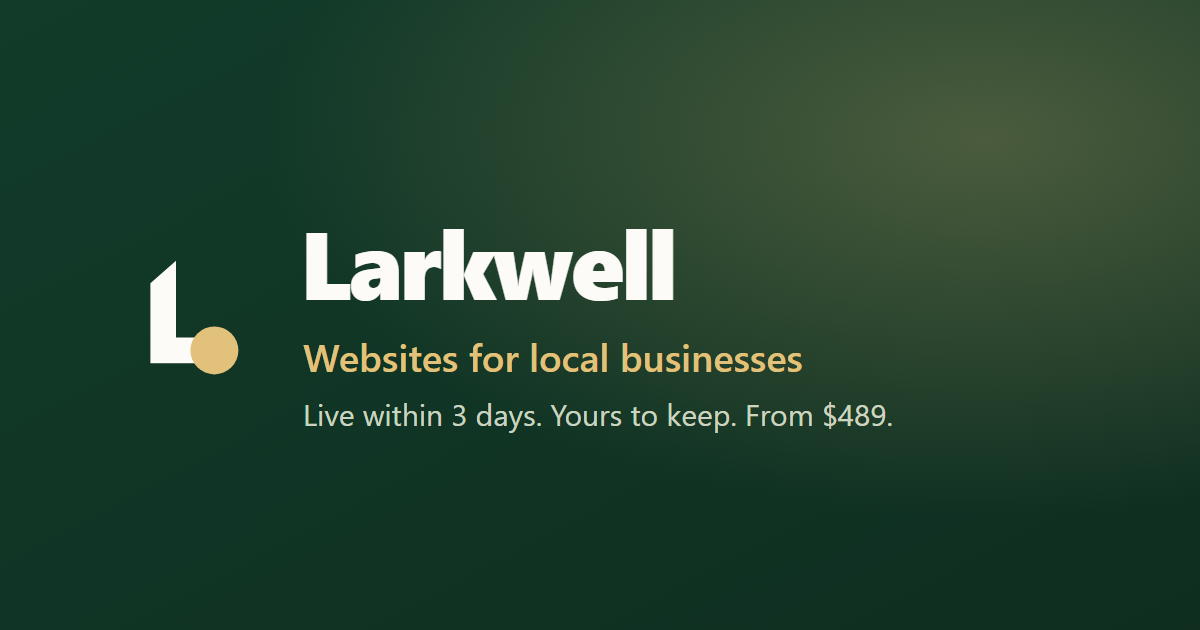
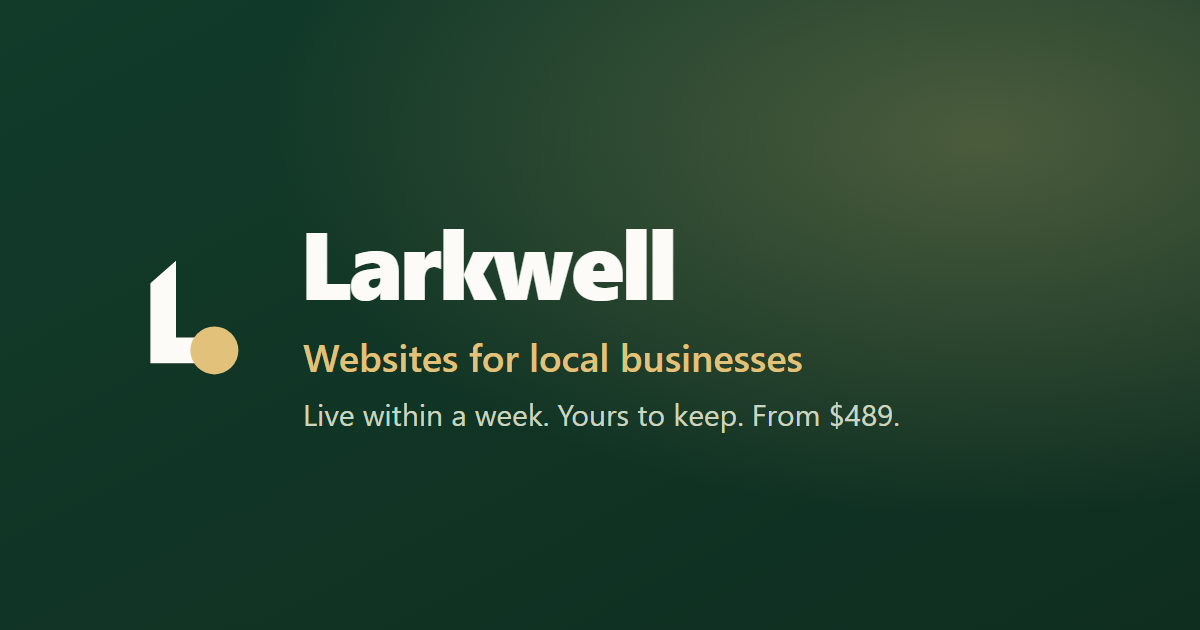
Add booking-email field, shift delivery timeline, declare light color-scheme
- Get-started form: ticking "Online booking" now reveals a required email
  field ("Which email should booking requests be sent to?") so the customer
  specifies where bookings land; it hides and clears when unticked and is
  captured in the Netlify submission.
- Delivery timeline shifted everywhere (meta, JSON-LD, hero, steps, rush
  add-on, trust card, FAQ, get-started form, pay section, OG image, and the
  T&C delivery clause 7.1/7.2 + ACL cross-reference): rush "a few hours" ->
  3 days, standard "3 days" -> a week (5 business days), no rush "a week" ->
  2 weeks. Minor-update clause 12.3 left at 3 business days (unrelated).
- Declare color-scheme: light (meta + CSS) on index and terms so mobile
  browsers like Samsung Internet stop force-darkening the light design,
  which is what made the founder/care sections look dark and muddy on phones.
- Re-exported og-image.png from the updated SVG.

Claude-Session: https://claude.ai/code/session_016jbJybH65PSH91xpCEP8mK

Changed region(s): [[0.37, 0.6333, 0.74, 0.6937]]

diff --git a/index.html b/index.html
@@ -3,9 +3,10 @@
 <head>
 <meta charset="UTF-8">
 <meta name="viewport" content="width=device-width, initial-scale=1.0">
+<meta name="color-scheme" content="light">
 <script>document.documentElement.classList.add('js');</script>
 <title>Larkwell · Websites for Local Businesses in Perth, WA</title>
-<meta name="description" content="Larkwell builds clean, modern websites for local businesses in Perth and across Australia. Live within 3 days, looks great on phones, and the site is yours to keep. From $489.">
+<meta name="description" content="Larkwell builds clean, modern websites for local businesses in Perth and across Australia. Live within a week, looks great on phones, and the site is yours to keep. From $489.">
 <link rel="canonical" href="https://www.larkwell.com.au/">
 <meta name="robots" content="index, follow, max-image-preview:large">
 <meta name="author" content="Larkwell">
@@ -16,7 +17,7 @@
 <meta property="og:site_name" content="Larkwell">
 <meta property="og:locale" content="en_AU">
 <meta property="og:title" content="Larkwell · Websites for Local Businesses in Perth, WA">
-<meta property="og:description" content="Clean, modern websites for local businesses. Live within 3 days, looks great on phones, and the site is yours to keep. From $489.">
+<meta property="og:description" content="Clean, modern websites for local businesses. Live within a week, looks great on phones, and the site is yours to keep. From $489.">
 <meta property="og:url" content="https://www.larkwell.com.au/">
 <!-- Social preview card. Design source is /assets/og-image.svg, exported to
      /og-image.png (1200x630, verified) since social platforms need a PNG/JPG,
@@ -29,7 +30,7 @@
 <meta name="twitter:image" content="https://www.larkwell.com.au/og-image.png">
 <meta name="twitter:card" content="summary_large_image">
 <meta name="twitter:title" content="Larkwell · Websites for Local Businesses in Perth, WA">
-<meta name="twitter:description" content="Clean, modern websites for local businesses. Live within 3 days, looks great on phones, and yours to keep. From $489.">
+<meta name="twitter:description" content="Clean, modern websites for local businesses. Live within a week, looks great on phones, and yours to keep. From $489.">
 <link rel="icon" type="image/svg+xml" href="/favicon.svg">
 <!-- apple-touch-icon: iOS home-screen icons want a 180x180 PNG (iOS ignores SVG
      here). Kept on the SVG so there's no broken link; generate
@@ -54,7 +55,7 @@
       "@type": "ProfessionalService",
       "@id": "https://www.larkwell.com.au/#business",
       "name": "Larkwell",
-      "description": "Larkwell builds clean, modern websites for local businesses in Perth and across Australia. Live within 3 days, mobile-friendly, and the site is yours to keep.",
+      "description": "Larkwell builds clean, modern websites for local businesses in Perth and across Australia. Live within a week, mobile-friendly, and the site is yours to keep.",
       "url": "https://www.larkwell.com.au/",
       "logo": "https://www.larkwell.com.au/assets/larkwell-logo.svg",
       "image": "https://www.larkwell.com.au/og-image.png",
@@ -73,7 +74,7 @@
       },
       "serviceType": "Website design and development for small businesses",
       "makesOffer": [
-        { "@type": "Offer", "name": "Launch", "price": "489", "priceCurrency": "AUD", "description": "A clean one-page website, live within 3 days." },
+        { "@type": "Offer", "name": "Launch", "price": "489", "priceCurrency": "AUD", "description": "A clean one-page website, live within a week." },
         { "@type": "Offer", "name": "Grow", "price": "839", "priceCurrency": "AUD", "description": "A multi-section website with the pages a growing local business needs." },
         { "@type": "Offer", "name": "Thrive", "price": "1259", "priceCurrency": "AUD", "description": "A larger site with booking, gallery, reviews and custom sections." },
         { "@type": "Offer", "name": "Everything", "price": "2099", "priceCurrency": "AUD", "description": "The full build: online shop, blog, multiple locations and more." }
@@ -92,7 +93,7 @@
       "@id": "https://www.larkwell.com.au/#faq",
       "mainEntity": [
         { "@type": "Question", "name": "How and when do I get my free preview?", "acceptedAnswer": { "@type": "Answer", "text": "Fill in the form with no package selected. I'll build your preview and email you a working link, usually within 1 business day." } },
-        { "@type": "Question", "name": "How long does it take?", "acceptedAnswer": { "@type": "Answer", "text": "Within 3 days, guaranteed, unless you choose no rush. The main thing that slows a build down is waiting on content from your side." } },
+        { "@type": "Question", "name": "How long does it take?", "acceptedAnswer": { "@type": "Answer", "text": "Within a week, guaranteed, unless you choose no rush. The main thing that slows a build down is waiting on content from your side." } },
         { "@type": "Question", "name": "Do I have to pay monthly?", "acceptedAnswer": { "@type": "Answer", "text": "No. The build is a one-off cost and the care plan is optional. Without it, you get the website file and putting it online is up to you." } },
         { "@type": "Question", "name": "Do I actually own the website?", "acceptedAnswer": { "@type": "Answer", "text": "Yes. Your domain is registered in your name from day one, and your design and content become yours once final payment clears." } },
         { "@type": "Question", "name": "Are there any ongoing costs?", "acceptedAnswer": { "@type": "Answer", "text": "The build is a one-off. After that, your domain renews yearly (usually under $30), and hosting is included in the optional $49/month care plan." } }
@@ -152,7 +153,7 @@
 /* clip, not hidden: hidden would make html a scroll container and can break
    the sticky header; clip only cuts the sideways spill from .rv reveal
    transforms (.care/.founder translateX) that phones showed as a 24px wiggle */
-html{scroll-behavior:smooth;background:var(--bone);overflow-x:clip}
+html{scroll-behavior:smooth;background:var(--bone);overflow-x:clip;color-scheme:only light}
 @media (prefers-reduced-motion:reduce){html{scroll-behavior:auto}}
 body{
   font-family:var(--body);
@@ -772,6 +773,8 @@ h2{font-size:clamp(2rem,4.4vw,3.2rem);font-weight:800;letter-spacing:-.032em}
    they were the same weight and near the same size as the label, so the longer
    hint text won the eye. Same restraint the payment panel already used. */
 .pf-hint{color:rgba(255,255,255,.7);font-size:.78rem;font-weight:500;line-height:1.5;margin:-4px 0 0}
+.pf-bookemail{margin:12px 0 2px;display:flex;flex-direction:column;gap:8px}
+.pf-bookemail[hidden]{display:none}
 /* oversized-file notice: a warm red distinct from the gold/coral already doing
    pricing and emphasis duty in this form, so it reads unambiguously as a problem */
 .pf-filewarn{color:#FFB4A0;font-size:.78rem;font-weight:700;line-height:1.5;margin:-4px 0 0}
@@ -1565,13 +1568,13 @@ html.scroll-up .scroll-progress{height:1.5px;opacity:.55}
       <span class="eyebrow">Websites for local businesses</span>
       <h1>A website worth <span class="hl">showing off.</span></h1>
       <p class="slogan">Small business websites, done properly.</p>
-      <p class="lead">Think cafes, bakeries, tradies, salons, medical centres and shops. Tell me about your business and I'll build the site, live within 3 days, guaranteed.</p>
+      <p class="lead">Think cafes, bakeries, tradies, salons, medical centres and shops. Tell me about your business and I'll build the site, live within a week, guaranteed.</p>
       <div class="hero-cta">
         <a class="btn btn-primary" href="#contact">Get a free preview</a>
         <a class="btn btn-ghost" href="#work">See sample sites</a>
       </div>
       <div class="chips">
-        <span><svg aria-hidden="true" width="16" height="16" viewBox="0 0 16 16" fill="none"><path d="M8 1v2M8 13v2M1 8h2M13 8h2" stroke="#D9B36A" stroke-width="1.6" stroke-linecap="round"/><circle cx="8" cy="8" r="3" fill="#F2E2B3"/></svg> Live within 3 days</span>
+        <span><svg aria-hidden="true" width="16" height="16" viewBox="0 0 16 16" fill="none"><path d="M8 1v2M8 13v2M1 8h2M13 8h2" stroke="#D9B36A" stroke-width="1.6" stroke-linecap="round"/><circle cx="8" cy="8" r="3" fill="#F2E2B3"/></svg> Live within a week</span>
         <span><svg aria-hidden="true" width="16" height="16" viewBox="0 0 16 16" fill="none"><rect x="4" y="1.5" width="8" height="13" rx="2" stroke="#D9B36A" stroke-width="1.6"/><circle cx="8" cy="11.5" r="1" fill="#F2E2B3"/></svg> Looks sharp on phones</span>
           <!-- PERSUASION: reciprocity + risk reversal, folded into the scannable chip row instead of its own paragraph -->
           <span><svg aria-hidden="true" width="16" height="16" viewBox="0 0 16 16" fill="none"><path d="M3 8.5l3 3 7-7" stroke="#D9B36A" stroke-width="1.8" stroke-linecap="round" stroke-linejoin="round"/></svg> Free preview, pay only if you love it</span>
@@ -1671,7 +1674,7 @@ html.scroll-up .scroll-progress{height:1.5px;opacity:.55}
         <span class="num">STEP 05</span>
         <svg aria-hidden="true" class="ico" viewBox="0 0 24 24" fill="none"><path d="M12 3v10M8 9l4 4 4-4" stroke="currentColor" stroke-width="2" stroke-linecap="round" stroke-linejoin="round"/><path d="M4 17v2a2 2 0 0 0 2 2h12a2 2 0 0 0 2-2v-2" stroke="currentColor" stroke-width="2" stroke-linecap="round"/></svg>
         <h3>I publish it, live for the world</h3>
-        <p>I connect your site to hosting and point your domain at it, so anyone who types it in can find you, day or night, anywhere in the world. You don't touch anything technical, I handle all of it, and it happens within 3 days of me having what I need from you, guaranteed.</p>
+        <p>I connect your site to hosting and point your domain at it, so anyone who types it in can find you, day or night, anywhere in the world. You don't touch anything technical, I handle all of it, and it happens within a week of me having what I need from you, guaranteed.</p>
       </div>
     </div>
   </div>
@@ -2156,7 +2159,7 @@ html.scroll-up .scroll-progress{height:1.5px;opacity:.55}
         </div>
         <div class="addon-card">
           <h4>Rush delivery</h4>
-          <p>Every package is already live within 3 days. Need it in hours instead? I clear space and prioritise your build above everything else in the queue.</p>
+          <p>Every package is already live within a week. Need it in 3 days instead? I clear space and prioritise your build above everything else in the queue.</p>
           <span class="addon-price">+$199</span>
         </div>
       </div>
@@ -2187,8 +2190,8 @@ html.scroll-up .scroll-progress{height:1.5px;opacity:.55}
       </div>
       <div class="tcard rv">
         <svg aria-hidden="true" class="ti" viewBox="0 0 24 24" fill="none"><path d="M3 12a9 9 0 1 0 9-9" stroke="currentColor" stroke-width="1.8" stroke-linecap="round"/><path d="M12 7v5l3 2" stroke="currentColor" stroke-width="1.8" stroke-linecap="round" stroke-linejoin="round"/></svg>
-        <h3>Live within 3 days</h3>
-        <p>Every site is live within 3 days of getting your content, guaranteed. The slow part is you sending photos, not me building.</p>
+        <h3>Live within a week</h3>
+        <p>Every site is live within a week of getting your content, guaranteed. The slow part is you sending photos, not me building.</p>
       </div>
       <div class="tcard rv">
         <svg aria-hidden="true" class="ti" viewBox="0 0 24 24" fill="none"><rect x="6" y="2" width="12" height="20" rx="3" stroke="currentColor" stroke-width="1.8"/><path d="M10 18h4" stroke="currentColor" stroke-width="1.8" stroke-linecap="round"/></svg>
@@ -2239,7 +2242,7 @@ html.scroll-up .scroll-progress{height:1.5px;opacity:.55}
     </div>
     <div class="faq">
       <div class="q rv"><button aria-expanded="false">How and when do I get my free preview?<span class="pm"></span></button><div class="a"><p>Fill in the form below with no package selected, that's it. I'll build your preview and email you a working link, usually within 1 business day.</p></div></div>
-      <div class="q rv"><button aria-expanded="false">How long does it take?<span class="pm"></span></button><div class="a"><p>Within 3 days, guaranteed, unless you choose no rush. Once you send me your details and photos, the build itself is quick. The main thing that slows it down is waiting on content from your side, so the more you have ready, the faster it goes.</p></div></div>
+      <div class="q rv"><button aria-expanded="false">How long does it take?<span class="pm"></span></button><div class="a"><p>Within a week, guaranteed, unless you choose no rush. Once you send me your details and photos, the build itself is quick. The main thing that slows it down is waiting on content from your side, so the more you have ready, the faster it goes.</p></div></div>
       <div class="q rv"><button aria-expanded="false">Do I have to pay monthly?<span class="pm"></span></button><div class="a"><p>No. The build is a one-off cost, and the care plan is completely optional. Without it, I don't host your site: you get the website file, the same one you saw in your preview, and putting it online is up to you. I can still point you to a simple, often free, way to do that.</p></div></div>
       <div class="q rv"><button aria-expanded="false">What do I need to give you?<span class="pm"></span></button><div class="a"><p>Your business name, what you offer, your prices if you list them, your contact details, and any photos you have. If you are missing something, I will help you sort it. No photos yet? I can use clean, tasteful placeholders until you have your own.</p></div></div>
       <div class="q rv"><button aria-expanded="false">Do I actually own the website?<span class="pm"></span></button><div class="a"><p><strong>Yes.</strong> Your domain is registered in your name from day one. Your design and content become yours once final payment clears. On the care plan, I host the site for quick updates, but hosting isn't ownership, if you ever leave, you get a full copy of the site plus your domain, no lock-in. Full detail in the <a href="#" data-open-terms>terms and conditions</a>.</p></div></div>
@@ -2377,6 +2380,11 @@ html.scroll-up .scroll-progress{height:1.5px;opacity:.55}
         </div>
         <p class="pf-hint" id="featuresHint">Pick what you want and I'll match you to a package.</p>
         <p class="pf-hint" id="bookingSetupNote" hidden>Here's how online booking works: your site gets a booking form where customers pick a day, a rough time and what they're after. <strong>Every request lands straight in your email inbox</strong> with their contact details, and you reply to confirm the time, so you stay in full control of your calendar. No outside booking service, no extra accounts, no monthly fees. <strong>With the care plan, I set the whole thing up for you.</strong> Without it, you host the site yourself, so I'll send you simple step-by-step instructions for putting it live on Netlify (free) and switching on the booking emails, and I'm an email away if you get stuck.</p>
+        <div class="pf-bookemail" id="bookingEmailWrap" hidden>
+          <label class="pf-label" for="bookingEmailField">Which email should booking requests be sent to?</label>
+          <input type="email" name="booking_email" id="bookingEmailField" placeholder="you@yourbusiness.com.au" autocomplete="email" aria-describedby="bookingEmailHint">
+          <p class="pf-hint" id="bookingEmailHint">Every booking a customer submits will land in this inbox, so make sure it's one you check. You can change it any time.</p>
+        </div>
 
         <div id="shopPaymentPanel" hidden style="background:var(--bone-2);border-radius:14px;padding:20px 20px 22px;margin:4px 0 18px">
           <strong>Selling online needs a few extra things from you.</strong>
@@ -2416,11 +2424,11 @@ html.scroll-up .scroll-progress{height:1.5px;opacity:.55}
         <p class="pf-hint">Prices above already include the 30% launch offer, no code needed.</p>
         <span class="pf-label">How soon do you need it live?</span>
         <div class="pf-pillgroup" role="radiogroup" aria-label="How soon do you need it live?" id="timelineGroup">
-          <label class="pf-pill" id="timelineAsapPill"><input type="radio" name="timeline" value="asap">ASAP, within a few hours <span class="pf-price" id="timelineAsapBadge">· +$199</span><span class="pf-tierhint" id="timelineAsapHint"></span></label>
-          <label class="pf-pill"><input type="radio" name="timeline" value="standard">Standard, live within 3 days</label>
-          <label class="pf-pill" id="timelineWeekPill"><input type="radio" name="timeline" value="week">No rush, within a week <span class="pf-tierhint" id="timelineWeekHint"></span></label>
+          <label class="pf-pill" id="timelineAsapPill"><input type="radio" name="timeline" value="asap">ASAP, within 3 days <span class="pf-price" id="timelineAsapBadge">· +$199</span><span class="pf-tierhint" id="timelineAsapHint"></span></label>
+          <label class="pf-pill"><input type="radio" name="timeline" value="standard">Standard, live within a week</label>
+          <label class="pf-pill" id="timelineWeekPill"><input type="radio" name="timeline" value="week">No rush, within 2 weeks <span class="pf-tierhint" id="timelineWeekHint"></span></label>
         </div>
-        <p class="pf-hint">Standard is the same 3-day guarantee every package gets. ASAP means I clear space and turn it around in hours, that's what the rush fee covers. No rush gives me breathing room to schedule around everything else. Both need a package picked first, they don't apply to a free preview.</p>
+        <p class="pf-hint">Standard is the same one-week guarantee every package gets. ASAP means I clear space and turn it around in 3 days, that's what the rush fee covers. No rush gives me breathing room to schedule around everything else. Both need a package picked first, they don't apply to a free preview.</p>
         <label class="care-check disabled" id="careCheckWrap">
           <input type="checkbox" name="care_plan" id="careCheck" value="yes" disabled>
           <span id="careCheckText"><strong>Add the care plan</strong> for $49/month. I'll host the site and handle small updates for you. Cancel anytime. <span class="hint">Pick a package above to add it.</span></span>
@@ -2470,7 +2478,7 @@ html.scroll-up .scroll-progress{height:1.5px;opacity:.55}
     <div class="sec-head rv" style="margin-bottom:52px;text-align:center;max-width:none">
       <span class="eyebrow">Already seen your preview?</span>
       <h2>Ready to go ahead?</h2>
-      <p class="lead" style="margin-inline:auto">Pick the package we agreed on and pay securely through Stripe. Not sure which one? Check the email I sent you, or get in touch first. Every build is live within 3 days, guaranteed.</p>
+      <p class="lead" style="margin-inline:auto">Pick the package we agreed on and pay securely through Stripe. Not sure which one? Check the email I sent you, or get in touch first. Every build is live within a week, guaranteed.</p>
     </div>
     <!-- Stripe returns here via success_url/cancel_url in the checkout function
          (?checkout=success or ?checkout=cancelled, both #pay), but nothing read
@@ -3584,8 +3592,8 @@ html.scroll-up .scroll-progress{height:1.5px;opacity:.55}
     <p><strong>6.2</strong> If we become registered for GST, prices for Orders placed after the date of registration will be stated inclusive or exclusive of GST as required by law. Registration will not increase the price of an Order you have already placed.</p>
 
     <h2>7. Timeframes</h2>
-    <p><strong>7.1</strong> We will deliver your Site within <strong>3 Business Days of the Start Date</strong>, unless your Order specifies a different timeframe or you have chosen a no-rush option.</p>
-    <p><strong>7.2</strong> The Start Date does not occur until we have received everything listed in clause 8.1. Time we spend waiting for material from you does not count towards the 3 Business Days.</p>
+    <p><strong>7.1</strong> We will deliver your Site within <strong>5 Business Days of the Start Date</strong>, unless your Order specifies a different timeframe or you have chosen a no-rush option.</p>
+    <p><strong>7.2</strong> The Start Date does not occur until we have received everything listed in clause 8.1. Time we spend waiting for material from you does not count towards the 5 Business Days.</p>
     <p><strong>7.3</strong> If we fail to deliver within that period for a reason within our control, you may choose either a revised delivery date agreed with us, or a full refund of amounts you have paid for the affected work. This is in addition to, and does not limit, any rights you have under the ACL.</p>
     <p><strong>7.4</strong> Clause 27 applies where delivery is delayed by an event outside our control.</p>
 
@@ -4619,6 +4627,8 @@ html.scroll-up .scroll-progress{height:1.5px;opacity:.55}
      themselves, so they get step-by-step instructions for putting it on
      Netlify and switching the booking emails on */
   var bookingSetupNote = document.getElementById('bookingSetupNote');
+  var bookingEmailWrap = document.getElementById('bookingEmailWrap');
+  var bookingEmailInput = document.getElementById('bookingEmailField');
   var BOOKING_NOTE_BASE = 'Here\'s how online booking works: your site gets a booking form where customers pick a day, a rough time and what they\'re after. <strong>Every request lands straight in your email inbox</strong> with their contact details, and you reply to confirm the time, so you stay in full control of your calendar. No outside booking service, no extra accounts, no monthly fees. ';
   var BOOKING_NOTE_CARE = '<strong>You\'ve added the care plan, so I\'ll set the whole thing up for you.</strong> Booking requests will arrive in your inbox from day one, nothing for you to do.';
   var BOOKING_NOTE_NO_CARE = '<strong>With the care plan, I set the whole thing up for you.</strong> Without it, you host the site yourself, so I\'ll send you simple step-by-step instructions for putting it live on Netlify (free) and switching on the booking emails, and I\'m an email away if you get stuck.';
@@ -4629,6 +4639,9 @@ html.scroll-up .scroll-progress{height:1.5px;opacity:.55}
       if(box.checked && box.value === 'booking') ticked = true;
     });
     bookingSetupNote.hidden = !ticked;
+    // when booking is wanted, make them tell me where the requests should land
+    if(bookingEmailWrap) bookingEmailWrap.hidden = !ticked;
+    if(bookingEmailInput){ bookingEmailInput.required = ticked; if(!ticked) bookingEmailInput.value = ''; }
     if(!ticked) return;
     var wantsCare = !!(careCheck && !careCheck.disabled && careCheck.checked);
     bookingSetupNote.innerHTML = BOOKING_NOTE_BASE + (wantsCare ? BOOKING_NOTE_CARE : BOOKING_NOTE_NO_CARE);
@@ -4638,6 +4651,7 @@ html.scroll-up .scroll-progress{height:1.5px;opacity:.55}
     featureBoxes.forEach(function(box){
       box.addEventListener('change', syncPackageFromFeatures);
       box.addEventListener('change', syncPaymentInfoPanel);
+      box.addEventListener('change', syncBookingNote);
     });
     syncPackageFromFeatures();
     syncPaymentInfoPanel();

diff --git a/terms.html b/terms.html
@@ -3,6 +3,7 @@
 <head>
 <meta charset="UTF-8">
 <meta name="viewport" content="width=device-width, initial-scale=1.0">
+<meta name="color-scheme" content="light">
 <title>Terms of Service · Larkwell</title>
 <meta name="theme-color" content="#0F2E20">
 <link rel="icon" type="image/svg+xml" href="/favicon.svg">
@@ -11,6 +12,7 @@
 <link href="https://fonts.googleapis.com/css2?family=Archivo:wght@500;600;700;800;900&family=Inter:wght@400;500;600;700;800&display=swap" rel="stylesheet">
 <style>
 :root{
+  color-scheme:only light;
   --bone:#FDFBF7; --bone-2:#F3EDE0; --ink:#1C1917; --ink-soft:#6B6259;
   --coral:#B45309; --coral-deep:#92400E; --night:#0F2E20; --night-2:#17402D; --gold:#E2C27A;
   --line:rgba(28,25,23,.14); --line-soft:rgba(28,25,23,.08);
@@ -270,8 +272,8 @@ code{font-family:var(--body);background:var(--bone-2);padding:.15em .4em;border-
 
   <h2 id="c7"><span class="num">7</span> Timeframes</h2>
   <ol class="clauses">
-    <li>We will deliver your Site within <strong>3 Business Days of the Start Date</strong>, unless your Order specifies a different timeframe or you have chosen a no-rush option.</li>
-    <li>The Start Date does not occur until we have received everything listed in clause 8.1. Time we spend waiting for material from you does not count towards the 3 Business Days.</li>
+    <li>We will deliver your Site within <strong>5 Business Days of the Start Date</strong>, unless your Order specifies a different timeframe or you have chosen a no-rush option.</li>
+    <li>The Start Date does not occur until we have received everything listed in clause 8.1. Time we spend waiting for material from you does not count towards the 5 Business Days.</li>
     <li>If we fail to deliver within that period for a reason within our control, you may choose either a revised delivery date agreed with us, or a full refund of amounts you have paid for the affected work. This is in addition to, and does not limit, any rights you have under the ACL.</li>
     <li>Clause 27 applies where delivery is delayed by an event outside our control.</li>
   </ol>
@@ -544,7 +546,7 @@ code{font-family:var(--body);background:var(--bone-2);padding:.15em .4em;border-
         <li>Whether website design and build services for a business are "not of a kind ordinarily acquired for personal, domestic or household use" so that the section 64A limitation in clause 19.2 is available, and whether it would be fair and reasonable for you to rely on it.</li>
         <li>Whether the liability cap in clause 19.3 is proportionate enough to survive the unfair contract terms regime, and whether it matches your insurance position. You should confirm whether you hold professional indemnity insurance and at what limit.</li>
         <li>Whether the execution block is sufficient to make clause 13.3 an effective assignment under section 196(3) of the <em>Copyright Act 1968</em> (Cth), or whether a separate signed assignment should be issued on final payment.</li>
-        <li>Whether the "3 Business Days from the Start Date" commitment in clause 7.1 is supported by reasonable grounds for the purposes of section 4 of the ACL, and what records you should keep to evidence that.</li>
+        <li>Whether the "5 Business Days from the Start Date" commitment in clause 7.1 is supported by reasonable grounds for the purposes of section 4 of the ACL, and what records you should keep to evidence that.</li>
         <li>Whether any "was / now" pricing on the website reflects a price genuinely charged for a reasonable period, following <em>ACCC v Coles Supermarkets Australia Pty Ltd</em>.</li>
         <li>Whether your handling of ABN, ACN and customer personal information triggers obligations despite the small business exemption, given the statutory tort for serious invasions of privacy in force since 10 June 2025.</li>
         <li>Whether you should register a business name and display your ABN on the website and on invoices.</li>
